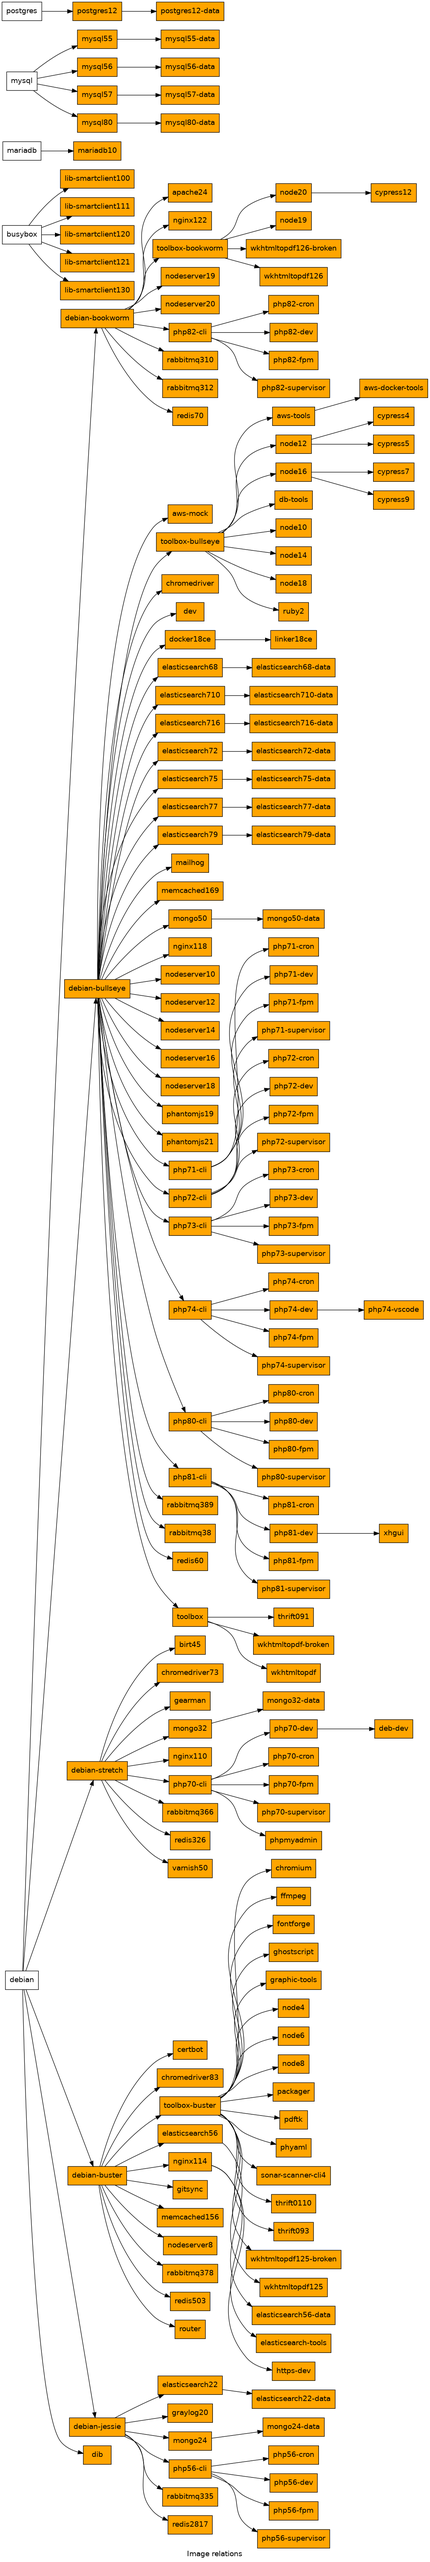
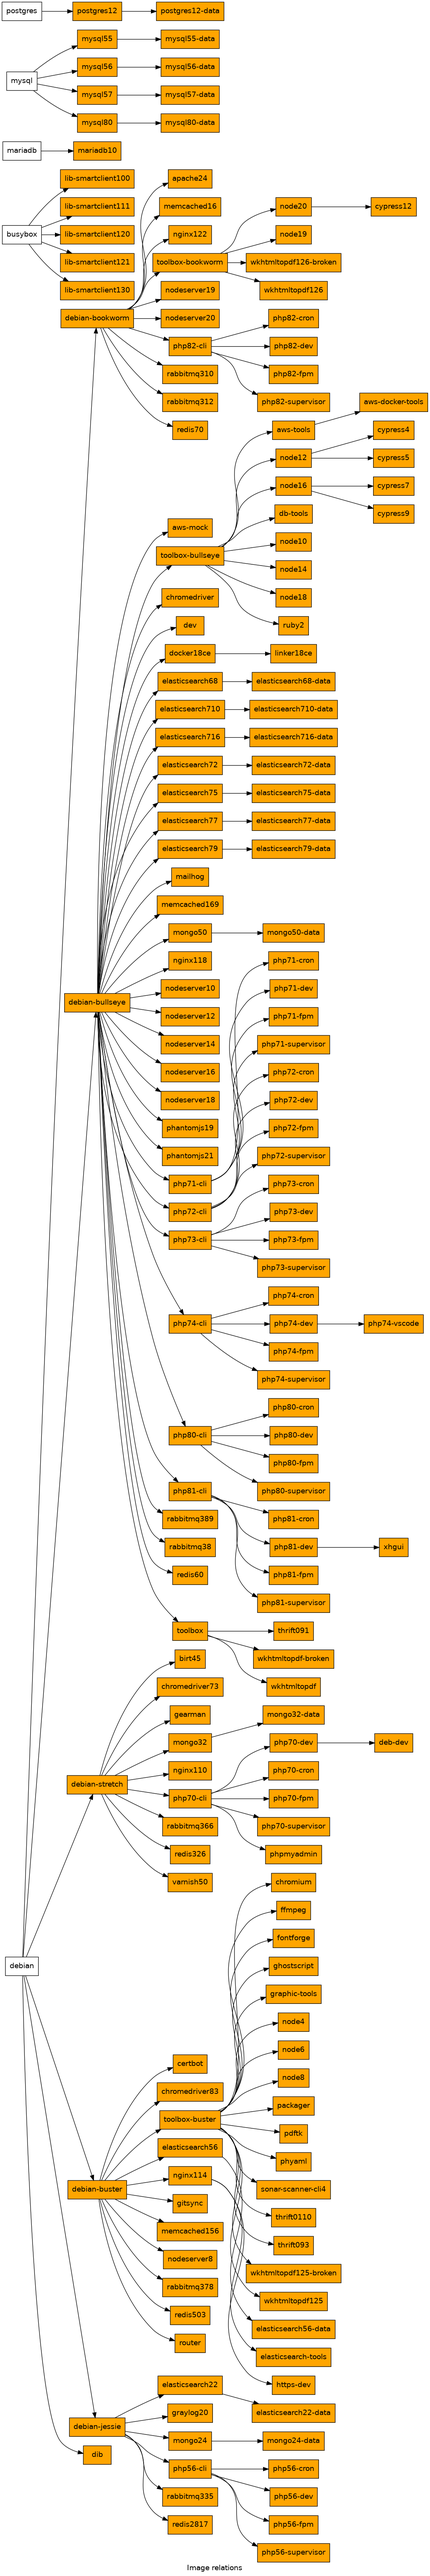
Added memcached16 image

diff --git a/VERSION_RECOMMENDATIONS.md b/VERSION_RECOMMENDATIONS.md
@@ -11,7 +11,7 @@
 | [wkhtmltopdf](https://packages.debian.org/search?suite=all&section=all&arch=any&searchon=names&keywords=wkhtmltopdf) | wkhtmltopdf126 | wkhtmltopdf125 | wkhtmltopdf126\-broken wkhtmltopdf125\-broken | wkhtmltopdf wkhtmltopdf\-broken |
 | phantomjs | - | phantomjs21 phantomjs19 |
 | thrift | - | thrift0110 thrift093 |
-| [memcached](https://packages.debian.org/search?suite=all&section=all&arch=any&searchon=names&keywords=memcached) | memcached169 | memcached156 |
+| [memcached](https://packages.debian.org/search?suite=all&section=all&arch=any&searchon=names&keywords=memcached) | memcached16 | memcached169 |
 | [chromium](https://packages.debian.org/search?suite=all&section=all&arch=any&searchon=names&keywords=chromium-driver) | chromedriver | chromedriver83 | - | chromedriver73 |
 | [mongo](https://www.mongodb.com/support-policy/lifecycles) | mongo50 | mongo32 mongo24 |
 | lib\-smartclient | lib\-smartclient130 | lib\-smartclient121 lib\-smartclient120 |
